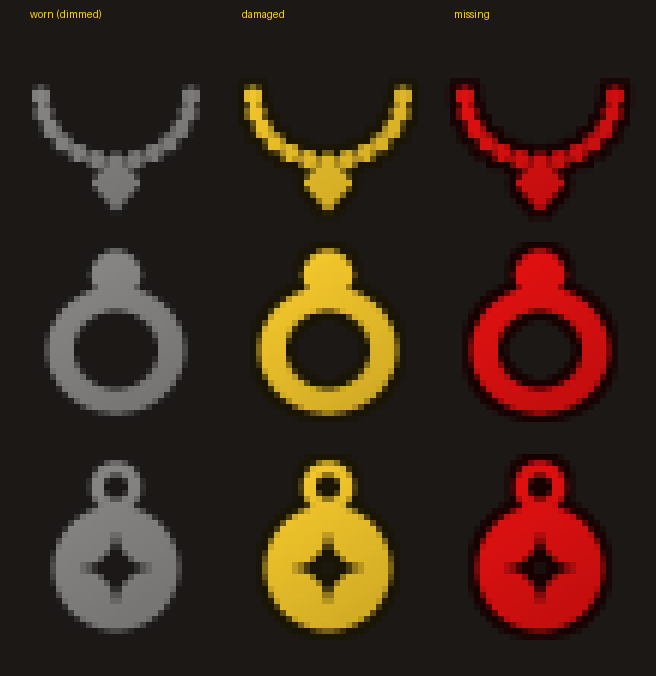
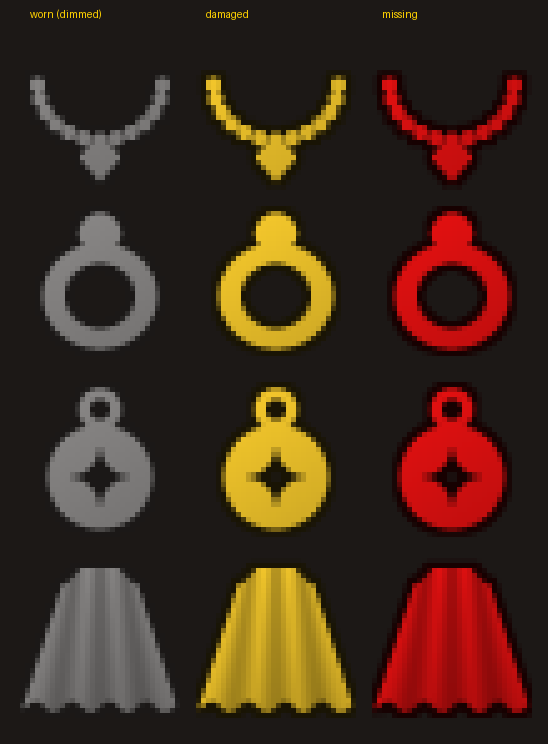
Add the back slot (a cloak) to the durability figure
New DurabilityCloak texture (a cape with folds and a wavy hem) in the
figure's style, hanging from the shoulders behind the body on a
background-strata child frame. Dimmed when worn, red when missing.

Claude-Session: https://claude.ai/code/session_01QKDwL2YJcTPQk37yLQ8CLT

diff --git a/README.md b/README.md
@@ -4,9 +4,9 @@ An addon for **Hordes of Azeroth** that helps you pick better gear:
 
 - **Tier numbers**: each item's tier (the `Tier 10` in the top-right of its tooltip) is printed on its icon, on the character frame, in your bags and bank, and in the Extraction Vault's "Mailed to you when you leave" box, like retail item-level addons.
 - **Quality glow**: an oGlow-style colored border around equipped items on the character frame. HoA's bag window already has its own.
-- **Missing gear on the durability figure**: the little armored figure under the minimap (which shows damaged gear yellow and broken gear red) also shows missing gear in red, using the same rules as the empty-slot glow. The addon adds a necklace, two rings and two trinkets to the figure in the same style (dimmed when worn, red when missing). It can be moved anywhere with `/hbg move`. The back has no picture on the figure.
+- **Missing gear on the durability figure**: the little armored figure under the minimap (which shows damaged gear yellow and broken gear red) also shows missing gear in red, using the same rules as the empty-slot glow. The addon adds a necklace, two rings, two trinkets and a cloak (hanging behind the body) to the figure in the same style (dimmed when worn, red when missing), so every slot that matters has a piece. It can be moved anywhere with `/hbg move`.
 
-  ![Necklace, ring and trinket icons](docs/figure-jewelry-preview.png)
+  ![Necklace, ring, trinket and cloak icons](docs/figure-jewelry-preview.png)
 - **Empty slot warning**: empty character slots glow red, so you can see what's missing. Shirt, tabard and ammo are left out, as are slots your class can't use in HoA (the ones it crosses out, e.g. ranged for most classes). The off hand only glows red when you're holding a one-handed weapon.
 - **Gear comparison** (Pawn-style): every gear tooltip, and the **New** card in the loot window ("Wear it, carry it, or salvage it for Valor"), says how the item compares with what you have equipped, as a % upgrade or downgrade plus the difference in each stat.
 - **Upgrade arrows**: items in your bags, your bank and at the Mythic Quartermaster that would be an upgrade get a green arrow. In the loot window, the New item gets a green arrow and each equipped piece it beats gets a red one.
@@ -80,5 +80,5 @@ Settings are saved per account in `HoABetterGearDB`.
 - The loot window's New card is HoA's own tooltip (`VanillaBonkGearNewTip`); the comparison is added right after HoA fills it in, so the card grows to fit.
 - Quartermaster cards aren't named frames, so while that window is open the addon finds them inside `VanillaBonkQuartermasterFrame` and updates a card's arrow when its item changes.
 - The durability figure is the game's `DurabilityFrame`: its `DurabilityFrame_SetAlerts` is wrapped to add missing pieces after the game's own coloring, and once moved, its position is kept even when the game re-anchors it under the minimap.
-- Files: `Core.lua` (settings, events, commands), `Tiers.lua` (tier numbers and glow), `Compare.lua` (comparison and arrows), `Figure.lua` (durability figure), `DurabilityNeck.tga` / `DurabilityRing.tga` / `DurabilityTrinket.tga` (its added parts), `UpgradeArrow.tga` / `DowngradeArrow.tga`.
+- Files: `Core.lua` (settings, events, commands), `Tiers.lua` (tier numbers and glow), `Compare.lua` (comparison and arrows), `Figure.lua` (durability figure), `DurabilityNeck.tga` / `DurabilityRing.tga` / `DurabilityTrinket.tga` / `DurabilityCloak.tga` (its added parts), `UpgradeArrow.tga` / `DowngradeArrow.tga`.
 - Written for the 1.12.1 client (Lua 5.0).
